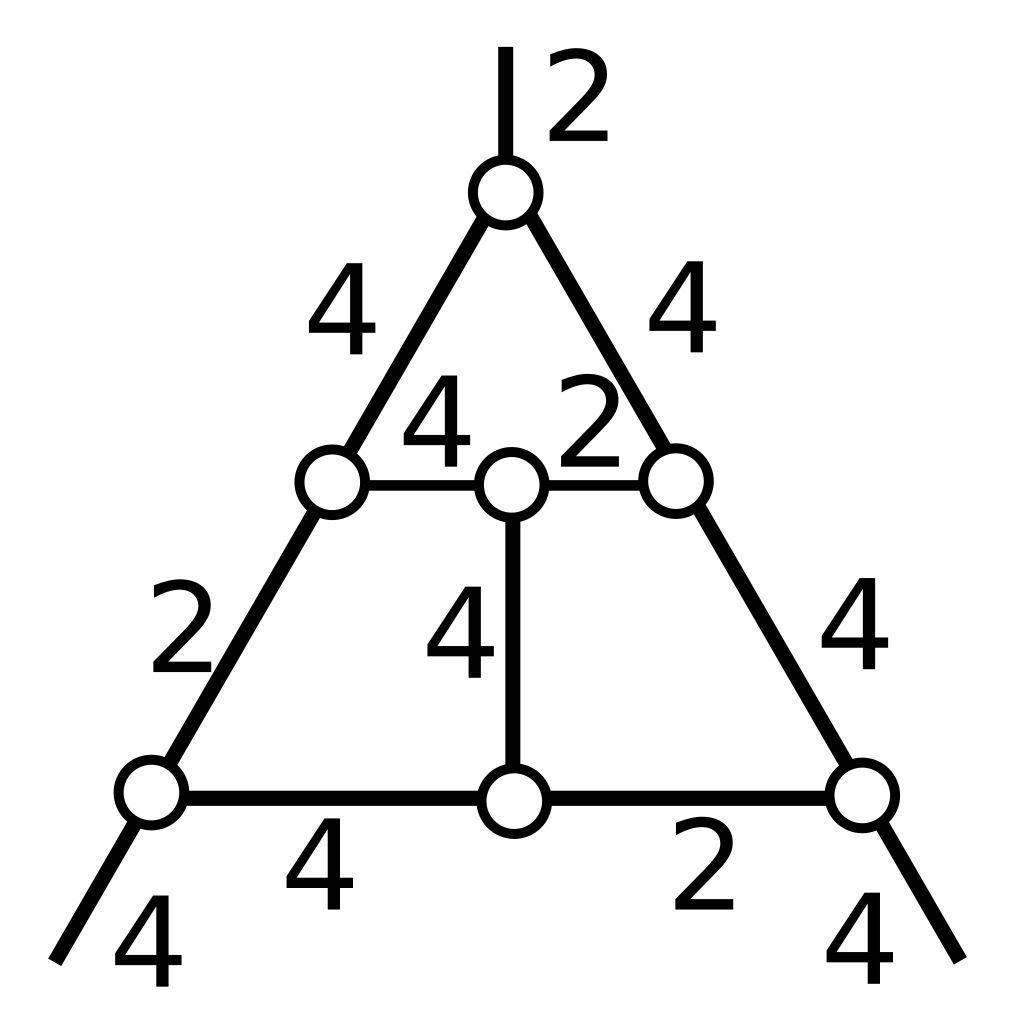
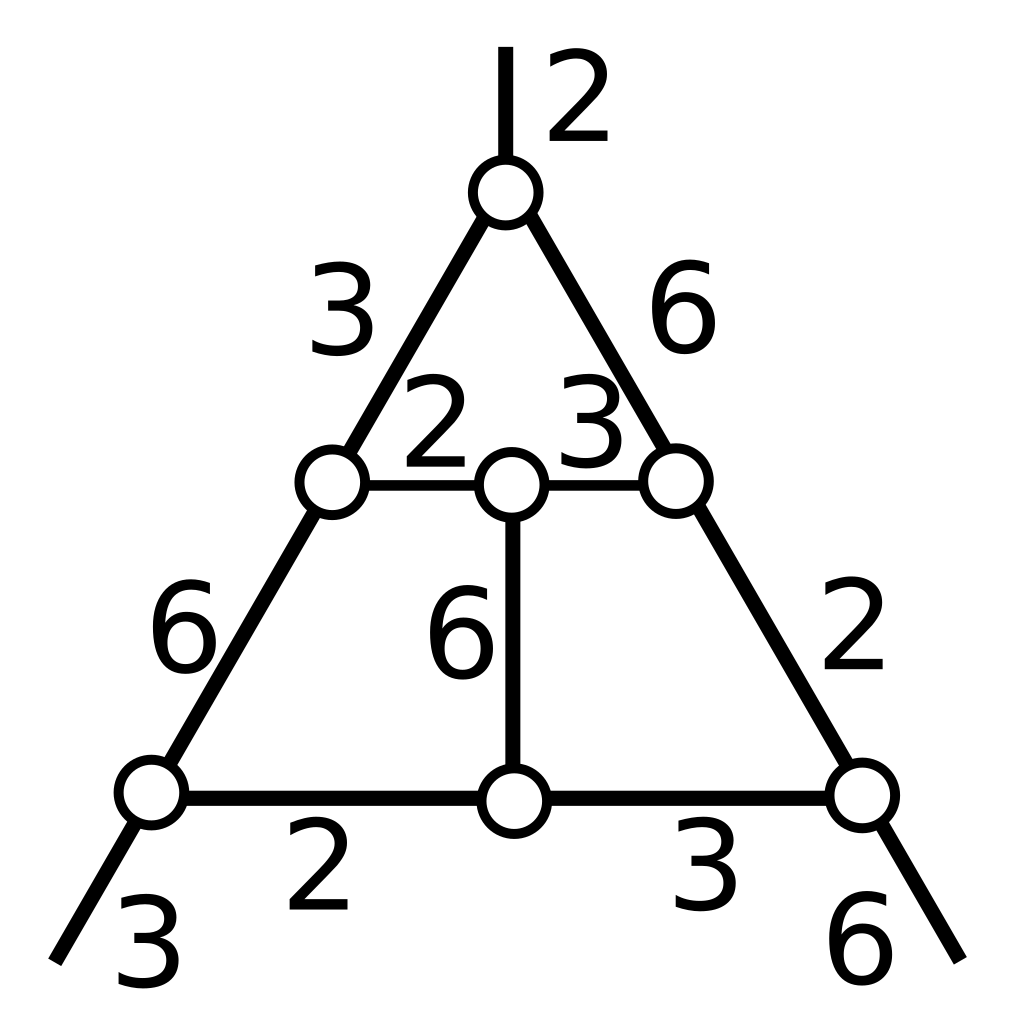
Add images

diff --git a/src/main.tex b/src/main.tex
@@ -711,7 +711,7 @@ Hence the four vertexes lie on one plane in $R^3$.
 (d) (6, 2, 3, 3, 3, 2, 3, 6, 3, 3, 6, 2)\\
 (e) (3, 2, 2, 3, 6, 6, 2, 6, 3, 6, 3, 2)\\
 (f) (3, 2, 2, 3, 6, 6, 3, 6, 2, 6, 2, 3)\\
-(g) (6, 2, 2, 3, 3, 3, 6, 5, 2, 6, 2, 3)\\
+(g) (6, 2, 2, 3, 3, 3, 6, 6, 2, 6, 2, 3)\\
 (h) (3, 2, 6, 3, 6, 2, 3, 6, 2, 2, 6, 3)\\
 (i) (4, 2, 2, 4, 4, 4, 2, 4, 4, 4, 4, 2)\\
 (j) (4, 2, 2, 4, 4, 4, 4, 4, 2, 4, 2, 4)\\
@@ -1193,7 +1193,32 @@ if and only if $r_2 < 3/4$. In the same way $r_4 < 3/4$ and $r_6 <
  z^2_B - z_B z_C &< 3/ 4
 \end{align}
 
-See Figure 10 ($z_B, z_C$) in the shaded area of this figure satisfies
+\begin{figure}[h!tbp]
+ \begin{minipage}[t]{0.5\textwidth}
+ \centering
+ \includegraphics[width=2in,
+ keepaspectratio]{./img/graph/cubeA.png}
+ \caption{}
+ \label{fig:graphCubeA}
+ \end{minipage}
+ \hspace*{\fill}
+ \begin{minipage}[t]{0.5\textwidth}
+  \centering
+  \includegraphics[width=2in,
+  keepaspectratio]{./img/graph/cubeALimit.png}
+  \caption{}
+  \label{fig:graphCubeALimit}
+ \end{minipage}
+ \hspace*{\fill}
+\end{figure}
+
+\begin{align*}
+(1)& z_Bz_C = 3/4\\
+(2)& z_C^2 - z_B z_C = 3/4\\
+(3)& z_B^2 - z_B z_C = 3/4
+\end{align*}
+
+See Figure \ref{fig:graphCubeA} ($z_B, z_C$) in the shaded area of this figure satisfies
 all of(2.D) and (2.E) and $z_B \geq 0$.
 
 In case (a), the original three parameters $z_A, z_B, z_C$ have symmetry,
@@ -1205,17 +1230,20 @@ and we can reduce $(z_B, z_C)$ to $(z_C, z_B)$ in case of
 $z_B < z_C$. If $z_B \leq z_C < 2z_B$ then we exchange the roles of
 $z_A$ and $z_C$ and we can reduce($z_B, z_C$) to ($z_C-z_B,z_C$) in case
 of $z_C \geq 2z_B$. In this way, the correct parameter space is as in
-Figure 11.
+Figure \ref{fig:graphCubeALimit}.
 
 Here two hyperbola $z^2_C - z_Bz_C = 3/4$ and $z_B z_C = 3/4$ intersects
 at ($\sqrt{6} / 4, \sqrt{6}/2$) and this point is on the straight line
-$z_C=2z_B$. In Figure 11, points on $z^2_C - z_Bz_C = 3/4$ aren't
+$z_C=2z_B$. In Figure \ref{fig:graphCubeALimit}, points on $z^2_C - z_Bz_C = 3/4$ aren't
 contained in the area. When ($z_B, z_C$) is on this parabola, the face
 $O_2$ is tangent to $O_5$. Moreover when
 $(z_B, z_C) = (\sqrt{6} / 4, \sqrt{6}/2)$, the face $O_3$ is also tangent
 to $O_4$.
-In the same way, we have a similar result in case $(b), (c), (d), (e),
-(h), (i)$. The figures below are parameter space in each case.
+
+In the same way, we have a similar result in case 
+$(b), (c), (d), (e), (h), (i)$. 
+The figures below are parameter space in each case.
+We show parameter spaces not considering symmetry.
 
 In case $(f), (g), (j), and (k)$, there is no solution of $(z_B, z_C)$
 to be a hexahedron. In fact, in case (f),
@@ -1226,6 +1254,132 @@ to be a hexahedron. In fact, in case (f),
  0 &< \dfrac{3 + z^2_C - z_Bz_C}{2\sqrt{3}} < \dfrac{\sqrt{3}}{2}.
 \end{cases}
 \end{align*}
+
+\begin{figure}[h!tbp]
+ \begin{minipage}[t]{0.5\textwidth}
+ \centering
+ \includegraphics[width=2in,
+ keepaspectratio]{./img/graph/cubeB.png}
+ \caption{}
+ \label{fig:graphCubeB}
+ \end{minipage}
+ \hspace*{\fill}
+ \begin{minipage}[t]{0.5\textwidth}
+  case(b)
+  \centering
+  \begin{align*}
+   (1)& -2\sqrt{3} z_B z_C + 54 - 30\sqrt{3} = 0\\
+   (2)& -3z_B^2 + 4 z_B z_C + 15/4 = 0\\
+   (3)& +2z_B z_C - 3z_C^2 + 3/4 = 0
+  \end{align*}
+ \end{minipage}
+\end{figure}
+
+\begin{figure}[h!tbp]
+ \begin{minipage}[t]{0.5\textwidth}
+ \centering
+ \includegraphics[width=2in,
+ keepaspectratio]{./img/graph/cubeC.png}
+ \caption{}
+ \label{fig:graphCubeC}
+ \end{minipage}
+ \hspace*{\fill}
+ \begin{minipage}[t]{0.5\textwidth}
+  \centering
+  case(c)
+  \begin{align*}
+   (1)& -\sqrt{3}z_B^2 - 2\sqrt{3}z_Bz_C + 90 - 51\sqrt{3} = 0\\
+   (2)& -3\sqrt{3}z_B^2 + 4\sqrt{3}z_B z_C + 90 - 48\sqrt{3} = 0\\
+   (3)& z_B^2 + 2 z_B z_C - 5z_C^2 + 9/4 = 0
+  \end{align*}
+ \end{minipage}
+ \hspace*{\fill}
+\end{figure}
+
+\begin{figure}[h!tbp]
+ \begin{minipage}[t]{0.5\textwidth}
+ \centering
+ \includegraphics[width=2in,
+ keepaspectratio]{./img/graph/cubeD.png}
+ \caption{}
+ \label{fig:graphCubeD}
+ \end{minipage}
+ \hspace*{\fill}
+ \begin{minipage}[t]{0.5\textwidth}
+  \centering
+  case(d)
+  \begin{align*}
+   (1)& -3z_B^2 - 6z_B z_C - z_C^2 -60 +36\sqrt{3} = 0\\
+   (2)& -15 z_B^2 + 6z_Bz_C + z_C^2 - 120 + 72\sqrt{3} = 0\\
+   (3)& 3z_B^2 + 6z_Bz_C - 5z_C^2 - 120 + 72 \sqrt{3} = 0
+  \end{align*}
+ \end{minipage}
+ \hspace*{\fill}
+\end{figure}
+
+\begin{figure}[h!tbp]
+ \begin{minipage}[t]{0.5\textwidth}
+ \centering
+ \includegraphics[width=2in,
+ keepaspectratio]{./img/graph/cubeE.png}
+ \caption{}
+ \label{fig:graphCubeE}
+ \end{minipage}
+ \hspace*{\fill}
+ \begin{minipage}[t]{0.5\textwidth}
+  \centering
+  case(e)
+  \begin{align*}
+   (1)& -6z_Bz_C - z_C^2 9/4 = 0\\
+   (2)& 7z_B^2 - 6z_Bz_C - z_C^2 - 3 = 0\\
+   (3)& z_bz_C - z_C^2 - 24 + 14\sqrt{3} = 0
+  \end{align*}
+ \end{minipage}
+ \hspace*{\fill}
+\end{figure}
+
+\begin{figure}[h!tbp]
+ \begin{minipage}[t]{0.5\textwidth}
+ \centering
+ \includegraphics[width=2in,
+ keepaspectratio]{./img/graph/cubeH.png}
+ \caption{}
+ \label{fig:graphCubeH}
+ \end{minipage}
+ \hspace*{\fill}
+ \begin{minipage}[t]{0.5\textwidth}
+  \centering
+  case(h)
+  \begin{align*}
+   (1)& -3z_B^2 - 2z_Bz_C + 3/4 = 0\\
+   (2)& -3z_B^2 + 3 z_Bz_C + 2 = 0\\
+   (3)&  3z_B^2 + 2z_Bz_C -5z_C^2 + 3 = 0
+  \end{align*}
+ \end{minipage}
+ \hspace*{\fill}
+\end{figure}
+
+\begin{figure}[h!tbp]
+ \begin{minipage}[t]{0.5\textwidth}
+ \centering
+ \includegraphics[width=2in,
+ keepaspectratio]{./img/graph/cubeI.png}
+ \caption{}
+ \label{fig:graphCubeI}
+ \end{minipage}
+ \hspace*{\fill}
+ \begin{minipage}[t]{0.5\textwidth}
+  \centering
+  case(i)
+  \begin{align*}
+   (1)& -2z_Bz_C - z_C^2 + 1 = 0\\
+   (2)& -3z_B^2 + 2 z_B z_C + z_C^2 + 2 = 0\\
+   (3)& z_Bz_C - z_C^2 - 8 + 6\sqrt{2} = 0
+  \end{align*}
+ \end{minipage}
+ \hspace*{\fill}
+\end{figure}
+
 In case (g),
 
 \begin{align*}
@@ -1796,6 +1950,13 @@ The hollows rise, and they emerge on the plane as balls
 The limit set of semi-sphairahedron is many spheres touching each other, and
 it becomes not a fuchsian group or a quasi-fuchsian group.
 
+In case (a), $-1.5 < Z_B < 0 or 0 < z_B < 1.5$.
+In case (b), 
+In case (c),
+In case (d),
+In case (e),
+In case (f),
+
 \subsection{Hexahedron}
 \subsubsection{Cube}
 \begin{figure}[H]
@@ -2012,6 +2173,10 @@ They have an organic shape.
 The sphairahedron has three types of combinations of face angles.
 There is one parameter.
 
+In case (a),
+In case (b),
+In case (c),
+
 \subsection{Polyhedra whose number of the faces is seven and more}
 
 It is difficult to compute rational ideal sphairahedra based on
@@ -2039,7 +2204,7 @@ The proof is as follows.
 
  For rationality, 
  the largest dihedral angle is $\pi / 2$.
- So, sum of the largest angle is $k\pi / 2$
+ So, largest sum of the angle is $k\pi / 2$
  $(k -  2)\pi > k\pi / 2$
 
  When a sphairahedron 
@@ -2186,8 +2351,8 @@ $P$.\\
 \end{proof}
 
 \begin{theorem}
- When $\bigcup_{x \text{is vertex of} P} B_x \supset P$,
- $\bigcup_{x \text{is vertex of} P} G_P{B_x} = G_{p}(P)$,
+ When $\bigcup_{x \text{ is vertex of } P} B_x \supset P$,
+ $\bigcup_{x \text{ is vertex of } P} G_P{B_x} = G_{p}(P)$,
 \end{theorem}
 
 \begin{proof}
@@ -2199,7 +2364,7 @@ $P$.\\
 \end{proof}
 From above, remark that in order to render limit ball,
 in many cases for each vertex $X$, we compute $B_x$ and render
-$G_p(\bigcup_x B_x)$.
+$G_p($ {\scriptsize$\displaystyle\bigcup_x$} $ B_x)$.
 
 
 \subsection{Three-dimensional Printing}
